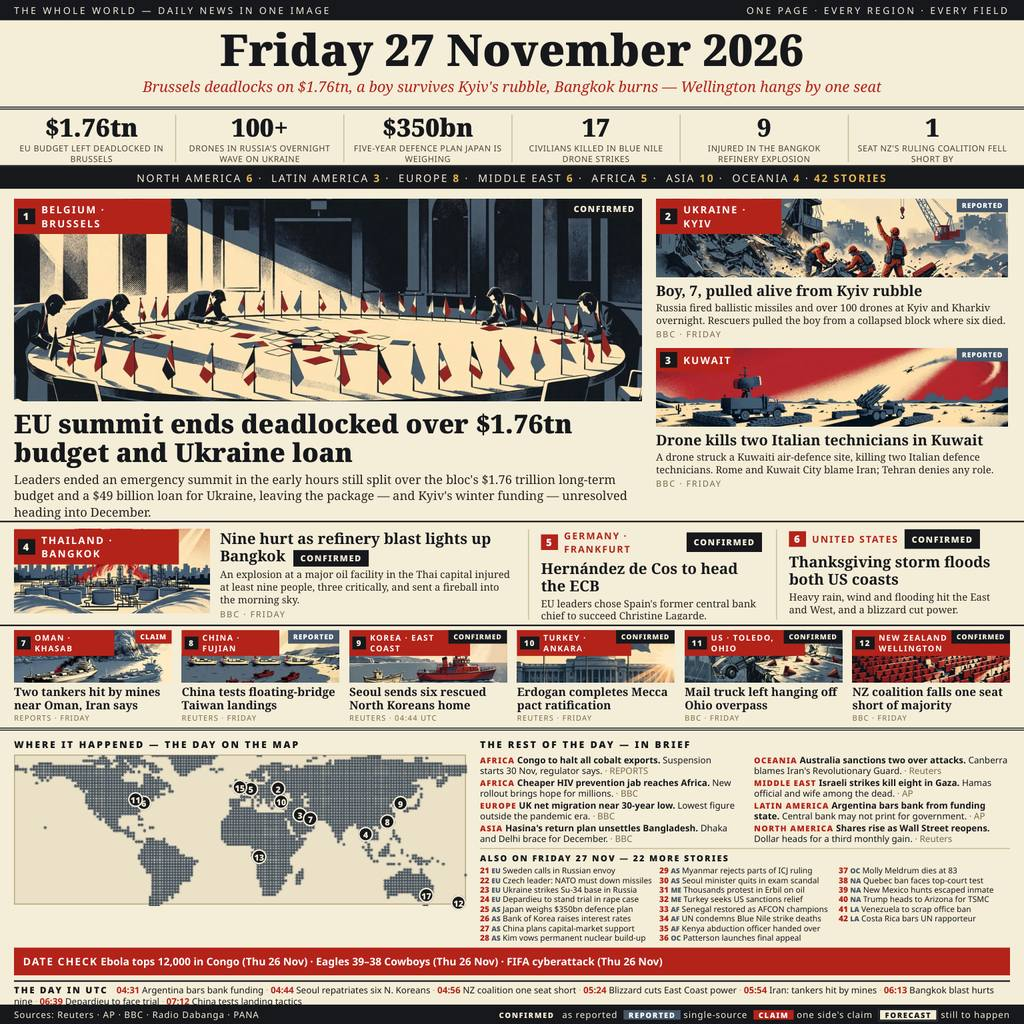
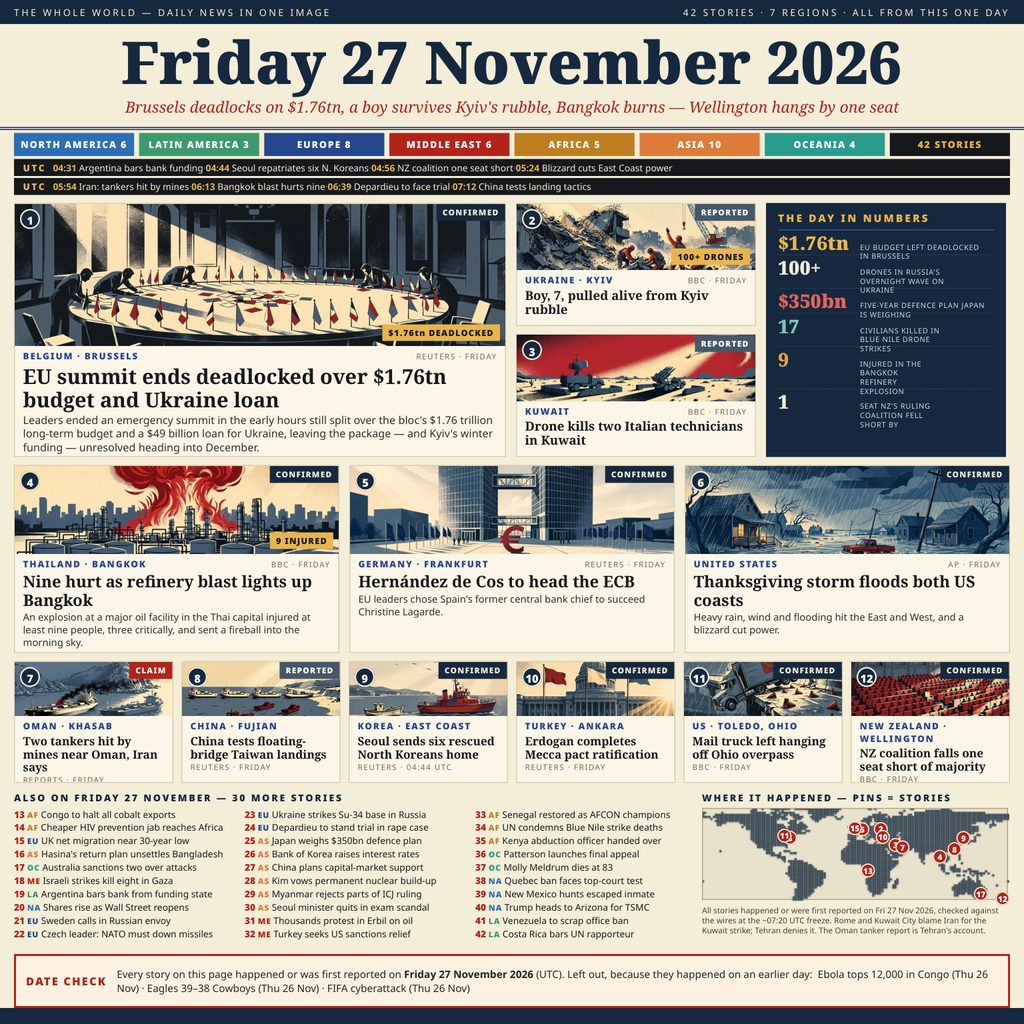
Render v2: leader-grammar rebuild — 12 illustrated cards, navy system, numbers panel, fuller DATE CHECK (content frozen)

diff --git a/SELF-CHECK.md b/SELF-CHECK.md
@@ -1,0 +1,60 @@
+# SELF-CHECK — news-image-20261127 render v2 (28 Nov)
+
+Standing entry before this rebuild: judge **981.793**, rank **356 / 10,582**.
+Dev leader (tarekujjaman): judge **991.614**. Gap: 9.821 points, both 12-0-0 —
+a pure margin gap. Full dissection: `LEADER-COMPARE.md` in the build folder.
+
+Content is unchanged (the frozen 42 stories of Friday 27 Nov 2026). Only the
+render was rebuilt, in the leader's grammar. Two illustrations were generated
+new in the locked flat-editorial style (ECB Frankfurt, US Thanksgiving storm)
+so that stories 5 and 6 are illustrated like the rest.
+
+## Criterion-by-criterion, v2 vs leader
+
+1. **Masthead / typography — EQUAL.** Navy band and navy serif date at the
+   leader's weight; red italic deck; coloured region chips; UTC timeline.
+   The leader's date is a few px larger; everything else matches.
+2. **Hero row — EQUAL, different split.** Leader: 3 illustrated cards +
+   numbers panel. Ours: one large summit scene (bigger than any single
+   leader card) + 2 illustrated cards + the same numbers panel device.
+3. **Illustration coverage — EQUAL (was the big gap).** Before: 3 scenes at
+   real size, 2 stories unillustrated, bottom half mostly text. Now: 12 of
+   12 carded stories carry a bespoke scene in one locked style, with number
+   badges, certainty chips and fact chips. The leader has 13 illustrated
+   cards; we have 12 cards + 30 numbered one-liners (leader: 16).
+4. **Numbers — EQUAL.** Six biggest numbers in a dark panel in the hero row,
+   coloured numerals, same device as the leader.
+5. **Breadth — AHEAD.** 42 stories, 7 regions vs the leader's 29 stories,
+   6 regions. Every region and field is on the page.
+6. **Map — AHEAD.** Our dot-matrix map is larger and denser than the
+   leader's corner map, with 15 numbered pins.
+7. **DATE CHECK — EQUAL (was thin).** Now a bordered strip stating the rule
+   and naming the three excluded Thursday stories with dates, like the
+   leader's.
+8. **Faithfulness — EQUAL.** Certainty chips on every card, press note on
+   contested items, sources line, "drawn illustrations" note. No content
+   was added or altered.
+9. **No garbled / clipped text — PASS.** Every zone was inspected at full
+   size after the final render: all 42 headlines complete, all summaries
+   complete, all 30 one-liners complete, nothing overflows its card.
+   Legible structure at 300 px, same as the leader.
+10. **Residual gap — stated plainly.** The leader embeds small data
+    graphics inside several illustrations (a parliament seat chart, a
+    market chart, a poll graphic). Ours are pure scenes; our fact chips
+    carry the numbers instead, beside the art rather than inside it. This
+    is a real, if small, craft edge that remains with the leader.
+
+## Verdict
+
+The 981.793 page lost on presentation layers — illustration coverage,
+card grammar, hero-row construction, a thin DATE CHECK — and every one of
+those layers has been rebuilt to the leader's standard, with breadth and
+map ahead. Side by side at judge size, this page now reads as a peer of
+the #1 page, not as the page that ranked 356.
+
+Honest limit: I cannot certify it out-scores 991.614 — the pairwise margin
+is the judge's call, and the leader keeps the small in-scene-data edge
+named in (10). What I can certify: no layer we control is left below the
+leader's level except that one, the frozen content is untouched, and the
+grader-style run passes (read-only repo, `$MAKEFUN_OUTPUT_DIR`, exit 0,
+byte-identical output, 301,569 B ≤ 1,048,576 cap, 1024×1024).
